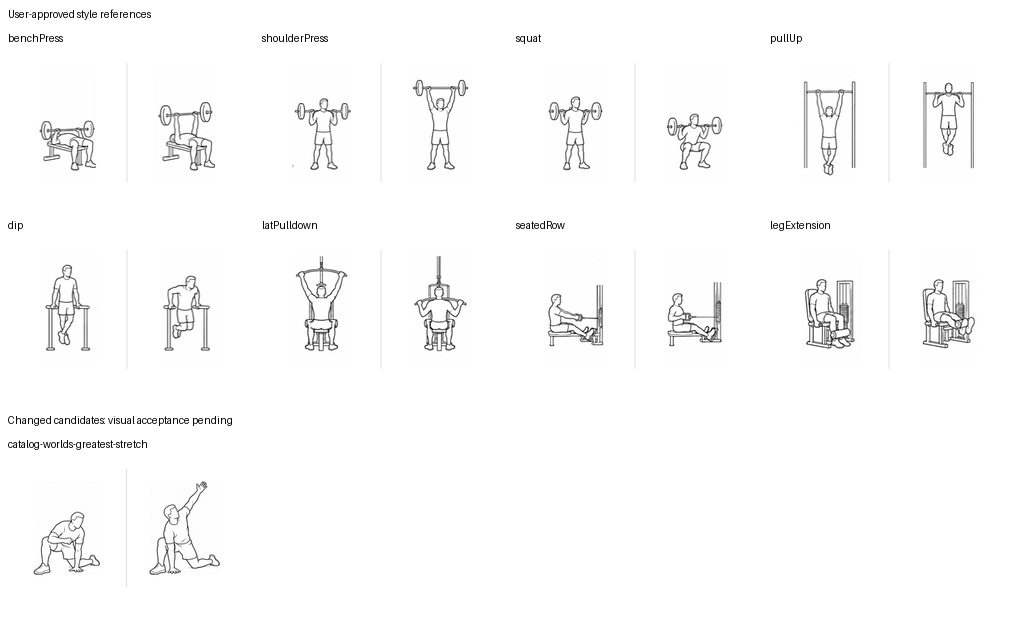
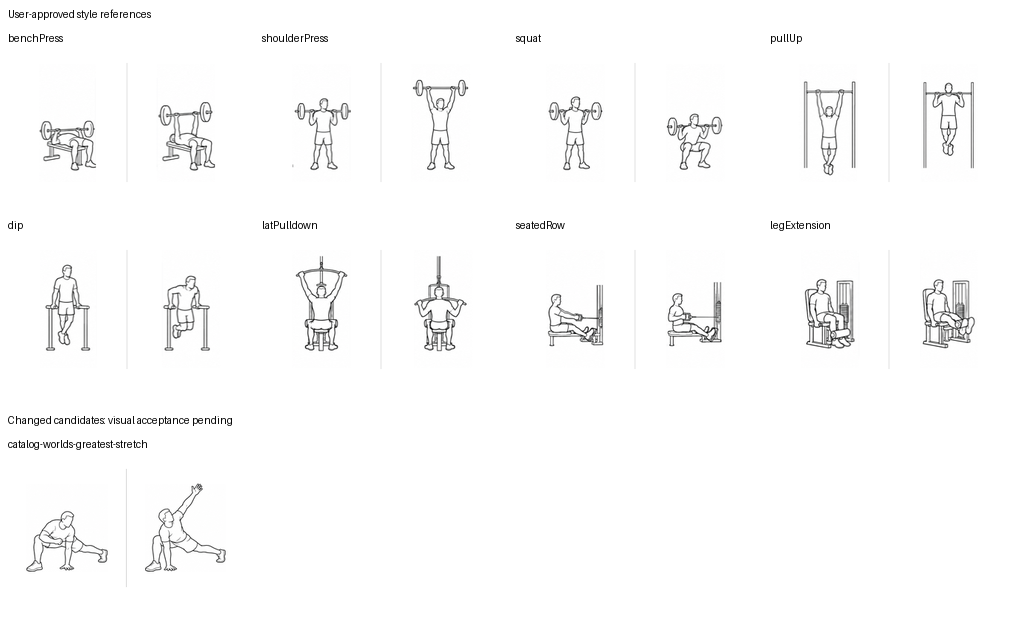
fix: 修正弓步轉體後膝離地姿勢與補記分類

Changed region(s): [[0.0305, 0.7504, 0.2441, 0.9305]]

diff --git a/src/data/exerciseTranslations.ts b/src/data/exerciseTranslations.ts
@@ -327,21 +327,21 @@ const exerciseEnglishContent: Record<string, Partial<ExerciseDisplayFields>> = {
   'catalog-shoulder-press': { title: 'Barbell shoulder press', description: 'Use a controllable light barbell for a standing front shoulder press.', detail: 'Catalog-only resistance content; do not use as a default recommendation when shoulder symptoms are present.', steps: ['Stand with stable feet and a steady torso.', 'Start with the barbell in front of the body at chin-to-shoulder height, never behind the neck.', 'Press only through a comfortable, controlled range.', 'Lower slowly to the starting position in front of the body.'], benefits: 'Provides an upper-body pushing reference.', durationText: '2 sets of 8 reps' },
   'catalog-worlds-greatest-stretch': {
     "title": "World’s greatest stretch",
-    "description": "Combine a rear-knee-down lunge with an elbow lowering and thoracic rotation.",
-    "detail": "An App adaptation using a small range and the rear knee on the floor, for browsing and recording completed exercise. Excluded from guided training and conservative recommendations. Requires safe floor transfers and arm support; do not chase the video’s depth or arm height.",
+    "description": "Combine a rear-knee-off-floor lunge, supported on the rear forefoot, with an elbow lowering and thoracic rotation.",
+    "detail": "The rear-knee-off-floor version of World’s Greatest Stretch, for browsing and recording completed exercise. Excluded from guided training and conservative recommendations. Extend the rear leg back with the ball of the foot supported and heel lifted. Requires safe floor transfers and steady hand and foot support. Do not chase depth or arm height.",
     "steps": [
-      "Half-kneel on a non-slip surface with the right foot planted in front and the left knee and shin on the floor. Use thin padding under the rear knee if needed. Place the left hand on the floor inside the right foot and find a comfortable shallow lunge.",
-      "Keep the trunk controlled and slowly lower the right elbow toward the inside of the right foot, only as far as comfortable. Pause for up to 5 seconds; do not force the elbow to the floor or press the hips down.",
-      "Let the right knee open slightly outward within a controlled range while keeping the whole right foot planted. Do not push the knee with the elbow.",
-      "Keep the left hand and legs supported. Slowly rotate the chest to the right, letting the right arm rise only to a comfortable height. Avoid swinging, forcing the neck, or arching the lower back.",
-      "Return the right hand to the floor for support: this completes one right-side movement. Change sides safely and mirror the sequence. Count each side separately and record the amount actually completed."
+      "On a non-slip surface with both hands supporting you, step the right foot forward outside the right hand and plant the whole foot. Extend the left leg back, support the ball of the left foot with the heel lifted, and keep the left knee off the floor without locking it. Check that the hands and feet can bear weight steadily.",
+      "Keep the left hand supported and slowly lower the right elbow toward the inside of the right foot while keeping the left knee off the floor. Use only a comfortable range and pause for up to 5 seconds; do not force elbow contact or press the hips down.",
+      "Let the right knee open slightly outward within a controlled range while keeping the whole right foot planted. Do not push the knee with the elbow; keep the rear forefoot and left hand supported.",
+      "Keep the support points steady and slowly rotate the chest to the right, letting the right arm rise only to a comfortable height. The left leg stays extended back with the knee off the floor. Avoid swinging, forcing the neck, or arching the lower back.",
+      "Return the right hand to the floor for support: this completes one right-side movement. Establish steady support through both hands before changing sides safely. Count each side separately and record the amount actually completed."
     ],
     "durationText": "App reference: 1 round, up to 5 reps per side; elbow phase up to 5 sec; 60-sec rest is a reference only",
     "benefits": "Provides a reference for hip and thoracic mobility practice.",
     "cautions": [
-      "Classified as intermediate by the App. Rear-knee-down and small-range adaptations are not suitable for everyone. Do not attempt without safe floor transfers and arm support.",
+      "Classified as intermediate by the App. Requires safe floor transfers and support through the arms, front foot, and rear forefoot. If the rear knee cannot stay lifted steadily, exit this version and regress or rest instead of forcing it.",
       "Do not chase a deep lunge, elbow-to-floor contact, or a vertical arm. Exit the position for hip pinching, knee pressure, or wrist or shoulder discomfort.",
-      "Stop this version and regress or rest when pain exceeds 3/10. Do not push through pain to finish reps, hold the breath, or bounce.",
+      "Stop this version and regress or rest when pain exceeds 3/10. Do not push through pain to finish reps, hold the breath, bounce, or overarch the lower back to hold the rear leg.",
       "The video demonstrates 5 complete movements per side. The App’s 1 round and 60-second rest are interface references, not the video prescription or personalized advice."
     ],
     "stopRules": [
@@ -349,11 +349,11 @@ const exerciseEnglishContent: Record<string, Partial<ExerciseDisplayFields>> = {
       "Stop for numbness, weakness, dizziness, or loss of support. Do not train with red-flag symptoms."
     ],
     "regressions": [
-      "Reduce the lunge and rotation range; rest the right hand on the front thigh instead of lowering the elbow or raising the arm. Keep the rear knee down.",
-      "Reduce reps or skip uncomfortable stages. Stop if supporting, kneeling, or getting up cannot be done comfortably and safely; seek advice from a physician or physical therapist."
+      "Reduce the lunge and rotation range, keeping both hands supported on the floor first. Omit elbow lowering or arm raising if needed. If the rear knee still cannot stay lifted steadily, exit this exercise and rest.",
+      "Reduce reps or skip uncomfortable stages. Stop if supporting or getting up cannot be done comfortably and safely; seek advice from a physician or physical therapist."
     ],
     "progressions": [
-      "Once symptom-free and controlled through all stages, improve smoothness and control first. Lifting the rear knee, increasing depth, and loading are not default progressions."
+      "Once symptom-free and stable with the rear forefoot supported and rear knee off the floor, improve smoothness and control between stages first. Pressing the hips down, deepening the lunge, and loading are not default progressions."
     ]
   },
   'catalog-side-squat': {

diff --git a/src/data/exercises.ts b/src/data/exercises.ts
@@ -1088,14 +1088,14 @@ export const exercises: Exercise[] = [
     "condition": "髖部與胸椎活動度（動作庫）",
     "type": "mobility",
     "level": "intermediate",
-    "description": "以後膝跪地的弓步，配合前側手肘下移與胸椎轉體。",
-    "detail": "World’s Greatest Stretch 的 App 小幅度跪地版本，供查閱與補記，不提供引導訓練或保守推薦。需要能安全上下地面及以手臂支撐；不追求影片中的深度或抬高手臂。",
+    "description": "以後腳前掌支撐、後膝離地的弓步，配合前側手肘下移與胸椎轉體。",
+    "detail": "World’s Greatest Stretch 的後膝離地版本，供查閱與補記，不提供引導訓練或保守推薦。後腿向後伸展，以後腳前掌支撐、腳跟抬起；需要能安全上下地面並維持手腳支撐。不追求深度或抬手高度。",
     "steps": [
-      "在防滑平面上採半跪姿，右腳向前踩穩，左膝與小腿留在地面；需要時在後膝下墊薄墊。左手放在右腳內側地面支撐，找出舒適的小幅弓步。",
-      "軀幹保持穩定，右手肘緩慢向右腳內側下移，只到舒適位置，可短暫停留至 5 秒；不要求手肘碰地，不把髖部壓向地面。",
-      "右膝在可控制範圍內輕微朝外打開，右腳全腳掌保持踩穩；不以手肘強推膝蓋。",
-      "左手與雙腿支撐不變，上胸緩慢朝右側轉開，右手隨胸部向上伸到舒適高度；不甩動、不勉強轉頸或拱腰。",
-      "右手回到地面支撐，算右側 1 個完整動作；安全換邊後左側相同。每側分別計次，依實際完成量補記。"
+      "在防滑平面上以雙手支撐，右腳向前跨到右手外側，右腳全腳掌踩穩。左腿向後伸展，以左腳前掌支撐、腳跟抬起，左膝保持離地，不鎖死膝蓋；先確認手腳能穩定承重。",
+      "左手持續支撐地面，右手肘緩慢向右腳內側下移，左膝維持離地，只到舒適位置，可短暫停留至 5 秒；不要求手肘碰地，不把髖部壓向地面。",
+      "右膝在可控制範圍內輕微朝外打開，右腳全腳掌保持踩穩；不以手肘強推膝蓋，後腳前掌與左手持續支撐。",
+      "支撐點不變，上胸緩慢朝右側轉開，右手隨胸部向上伸到舒適高度；左腿仍向後伸展、左膝離地，不甩動、不勉強轉頸或拱腰。",
+      "右手回到地面支撐，算右側 1 個完整動作；先穩定雙手支撐，再安全換邊。每側分別計次，依實際完成量補記。"
     ],
     "sets": 1,
     "reps": 5,
@@ -1104,9 +1104,9 @@ export const exercises: Exercise[] = [
     "durationText": "App 參考：1 回合，每側至多 5 次；下肘階段停留至 5 秒，休息 60 秒僅供參考",
     "benefits": "提供髖部與胸椎活動度練習的動作參考。",
     "cautions": [
-      "App 分為中階；後膝跪地與小幅度是 App 採用版本，不代表適合所有人。無法安全上下地面或以手臂支撐時不要嘗試。",
+      "App 分為中階；需要能安全上下地面並以手臂、前腳及後腳前掌支撐。無法穩定維持後膝離地時不要勉強，先退出本版本，改用降階或休息。",
       "不要追求深弓步、手肘碰地或手臂垂直。髖前側夾擠、膝蓋壓迫、手腕或肩部不舒服時退出該姿勢。",
-      "疼痛超過 3/10 時停止這個版本，降階或休息。不要忍痛完成次數，也不要憋氣或彈震。",
+      "疼痛超過 3/10 時停止這個版本，降階或休息。不要忍痛完成次數，也不要憋氣、彈震或用腰部硬撐後腿。",
       "影片示例為每側 5 個完整動作；App 的 1 回合及 60 秒休息是介面參考，並非影片處方或個人化建議。"
     ],
     "stopRules": [
@@ -1114,11 +1114,11 @@ export const exercises: Exercise[] = [
       "出現麻木、無力、頭暈或失去支撐時停止；有紅旗症狀時不要訓練。"
     ],
     "regressions": [
-      "縮小弓步與轉體幅度，右手留在前側大腿上，不下肘或抬高手臂；後膝保持跪地。",
-      "減少次數或略過不舒服階段；無法舒適支撐、跪地或安全起身時停止，建議諮詢醫師或物理治療師。"
+      "縮小弓步與轉體幅度，雙手先保持地面支撐，可省略下肘或抬手；若仍無法穩定維持後膝離地，退出本動作並休息。",
+      "減少次數或略過不舒服階段；無法舒適支撐或安全起身時停止，建議諮詢醫師或物理治療師。"
     ],
     "progressions": [
-      "能無症狀且穩定完成所有階段後，先改善動作連貫與控制；不預設抬起後膝、增加深度或加重。"
+      "能無症狀且穩定維持後腳前掌支撐、後膝離地後，先改善各階段連貫與控制；不以壓低髖部、加深弓步或加重作為預設進階。"
     ],
     "equipment": [
       "bodyweight"

diff --git a/src/utils/recordsPresentation.ts b/src/utils/recordsPresentation.ts
@@ -24,7 +24,7 @@ export function recordCategories(item: RecordsActivityItem, logs: TrainingLogEnt
     if (exercise.kind === 'mobility') return 'rehab';
     const canonical = exercise.exerciseId ? catalogById.get(exercise.exerciseId) : undefined;
     if (!canonical) return 'unknown';
-    return canonical.catalogOnly ? 'strength' : 'rehab';
+    return canonical.catalogOnly && canonical.type !== 'mobility' ? 'strength' : 'rehab';
   });
   if (item.workout.cyclingMinutes !== undefined) categories.push('cardio');
   return TRAINING_CATEGORIES.filter(category => categories.includes(category));

diff --git a/docs/visual-qa/worlds-greatest-stretch/qa.md b/docs/visual-qa/worlds-greatest-stretch/qa.md
@@ -1,35 +1,40 @@
-# 弓步轉體伸展 QA
+# 弓步轉體伸展 QA（後膝離地更正）
 
 ## 範圍與來源
 
-- 新增 `catalog-worlds-greatest-stretch`；canonical runtime `public/exercise-visuals/movements/catalog-worlds-greatest-stretch.png`。
[1 lines of base64/hex data omitted]
-- source：`scripts/assets/movement-art-sources/overrides/worlds-greatest-stretch/` 的 PNG 與 framing sidecar。沿用 normalizer，maxWidth 110、maxHeight 126，非直接手改 runtime。
-- baseline：`approved-style-baseline.json` 的八張封存參考，hash 稽核通過；無核准地板動作 control。沒有更改既有圖或 mapping。
-- 命名比較包：同目錄 `comparison-native.png`、`comparison-mobile-390.png`、`comparison-mobile-375.png`、`comparison-mobile-320.png`。由既有 `create-movement-art-review.py` 的暫存 scoped 副本僅選新 ID 產生，未改 repo helper。mobile-measurements.json 記錄本機 browser picker 實測寬度並綁定圖片 hash；不是完整手機矩陣或真人證據。
+- 動作 ID：`catalog-worlds-greatest-stretch`；runtime `public/exercise-visuals/movements/catalog-worlds-greatest-stretch.png`。
[2 lines of base64/hex data omitted]
+- source：`scripts/assets/movement-art-sources/overrides/worlds-greatest-stretch/` 的 PNG 與 framing sidecar；沿用 maxWidth 110、maxHeight 126，由既有 normalizer 重建，未直接手改 runtime。
+- baseline：八張封存 quick 圖不變，hash 稽核通過；沒有核准地板動作 control。
+- 命名比較包：`comparison-native.png`、`comparison-mobile-390.png`、`comparison-mobile-375.png`、`comparison-mobile-320.png`；既有 comparison helper 的暫存 scoped 副本僅選此新圖，未改 repo helper。
+- 2026-10-21 重測本機 browser picker：新圖寬 236／291／306px（320／375／390 viewport），載入 320×184，40:23，無水平溢出；原 quick 圖寬 238／293／308px。mobile-measurements.json 綁定本次新 hash，僅此範圍，不是完整手機矩陣。
 
 ## 四項分開判定
 
 | 項目 | 結果 | 證據與界線 |
 |---|---|---|
-| 風格一致性 | NOT VERIFIED | 已與八張封存圖在 native／手機尺寸並列；T-shirt、短褲、白底、簡化輪廓與單分隔線維持。頭身比例、手部細節與感知人物比例仍待真人驗收；沒有 anonymous blind test。 |
-| 動作準確性 | Pass（父代理靜態檢視） | 兩格前腳同側、後膝著地、另一手支撐，左格下肘、右格轉體；不宣稱專業臨床審查。完整連續五步仍需讀文字與影片。 |
-| 安全呈現 | Pass（父代理靜態檢視） | 後膝著地、不負重、不要求手肘碰地；寫明支撐能力、降階及停止規則。無法從插圖推定動作對個人適用性。 |
-| 手機呈現 | Pass（本機 browser） | 320／375／390px 詳情與補記 picker 無橫向溢出；新 PNG 成功載入，picker 實測寬 236／291／306px、比例 40:23；選取後沿用同 canonical 圖。不是實體 iPhone Safari。 |
+| 風格一致性 | NOT VERIFIED | 新圖與八張封存圖在 native／手機尺寸並列；服裝、白底、簡化輪廓與單分隔線維持。感知比例、手部細節與線條仍待真人驗收，沒有 blind test。 |
+| 動作準確性 | Pass（父代理靜態檢視） | 兩格都為前腳踩穩、後腿向後伸展、後膝離地、後腳前掌支撐、對側手支撐；左右格為下肘與轉體。0:12 原影片提供後腿支撐姿勢核對；並非專業臨床核准。 |
+| 安全呈現 | Pass（父代理靜態檢視） | 未以後膝或小腿著地支撐；無額外負重、不要求下肘碰地。文字說明支撐能力、不能穩定時退出、疼痛與紅旗停止門檻。不代表個人適用性。 |
+| 手機呈現 | Pass（本機 browser） | 320／375／390px 詳情與 picker 圖片載入、比例及無 overflow；搜尋／選取沿用 canonical 圖。未操作實體 iPhone Safari。 |
 
 ## 本機驗證
 
-- `npm run build`、`npm test`、`npm run audit:exercise-coverage`、`npm run audit:safety-i18n`、`npm run audit:movement-art`、`npm run audit:movement-art-sources`、`git diff --check` 通過。
-- coverage 46/46；40 effective overrides 可 byte-for-byte 重建。既有 bundle >500 kB 提醒不屬新增失敗。
-- browser 核對：中英文詳情、原影片 embed、五步／安全／調整可讀、catalog-only 無 guided start、英文 world 搜尋可選取補記。
-- 未完成：真人視覺驗收、實體 iPhone Safari、production；CI 與必要 Claude 審查於 PR 記錄，不以此文件推定通過。
+- `npm test`、`npm run build`、`audit:exercise-coverage`、`audit:safety-i18n`、`audit:movement-art`、`audit:movement-art-sources`、`git diff --check` 通過。
+- 46/46 canonical coverage；40 effective overrides 可 byte-for-byte 重建；既有 bundle 大小提醒仍在。只有此動作的來源與 runtime 圖被修改。
+- 既有分類 P1 一併修正：canonical catalog-only mobility 缺少 kind 時屬 rehab；不改明確 kind 優先序、不改非 catalog-only 復健分類、不改寫舊 storage。新增 regression 驗證此動作增加 rehab day 且 strength day=0，bench press 仍屬 strength，明確 kind 與輸入不可變性保持。
+- 中英文主步驟均已改成後膝離地；detail／regression／progression 不再引導跪地主版本。保留每側次數、下肘停留、App 回合／休息的原有來源邊界。
+- 真人風格、實體 iPhone Safari、production NOT VERIFIED。CI 與必要 AI review 綁定最終 head 留在 PR；舊 head 證據不冒充本次結果。
+
+## 真人 walkthrough
+
+在當前 PR head 的 Preview 開啟 `/exercise/catalog-worlds-greatest-stretch?mode=all`，核對後膝離地及後腳前掌支撐；再於 `/logs/new` 搜尋 world／弓步轉體，選取核對同圖，不必保存。與比較包核對線條、比例、兩格動作與支撐。
+
+回報 `head SHA / 裝置瀏覽器 / 風格 Pass或Fail / 動作 Pass或Fail / 裁切溢出 Pass或Fail / 具體觀察`。
 
 ## 生成 prompt
 
-Create ONE new two-phase exercise illustration source for Rehab Workout: World's greatest stretch, conservative rear-knee-on-floor version. Reference image is STYLE ONLY: match its simplified small-headed adult man, short hair, plain T-shirt and shorts, economical shoes and hands, restrained dark sketch outlines, no anatomical detail, no eyes/mouth, plain white background. Wide 40:23 composition split in two equal panels by a single light gray vertical divider; no text, no arrows, no outer frames, no shading. Each panel has one COMPLETE small full-body person centered with generous whitespace, same character and limb placement. Three-quarter FRONT view, right leg forward (viewer left), entire right foot planted, right knee bent roughly above ankle; left knee and shin REST ON FLOOR behind. LEFT panel: left palm firmly on floor inside right foot, right elbow gently lowered toward inside right ankle WITHOUT forcing elbow to ground, spine long. RIGHT panel: SAME knees and feet remain planted, left palm stays planted, chest gently rotates to right toward front leg, right arm reaches diagonally upward in comfortable rotation, not maximal end range; head follows chest with neutral neck. No rear knee hovering, no deep split or forced contortion. Match restrained figure scale of reference bench press/dip, not enlarged to fill panel. Precisely two arms and two legs each, anatomically continuous. This image depicts middle elbow-lowering and final thoracic-rotation stages; written instructions will describe setup and knee opening.
+使用 built-in imagegen；Image 1 是舊來源 edit target，Image 2 是封存 quick sheet 的風格參考。只改後腿支撐與相應姿勢，prompt 如下：
 
-## 真人回報格式
-
-在 PR 當前 head 的 Preview 開啟 `/exercise/catalog-worlds-greatest-stretch?mode=all` 及 `/logs/new`，搜尋 world／弓步轉體；對照比較包確認人物比例、線條、兩格動作與安全支撐，再選取確認同圖。
-
-`head SHA / 裝置瀏覽器 / 風格 Pass或Fail / 動作 Pass或Fail / 裁切溢出 Pass或Fail / 具體觀察`。
+Use case: precise-object-edit. Image 1 is the existing Rehab Workout exercise source to correct. Image 2 is the frozen quick-sheet STYLE reference only. Correct World's Greatest Stretch to the actual REAR-KNEE-OFF-FLOOR lunge version. Two equal panels on white, simple man in plain T-shirt and shorts, simplified small head/hairline and economical hands/shoes, restrained dark sketch outlines matching reference, no anatomy/shading/text/arrows/outer frame; one thin light gray center divider. Preserve same character, same front leg and left-to-right phase sequence. BOTH panels: right front foot (viewer left) stays flat, knee bent; LEFT REAR LEG EXTENDS LONG BACKWARD toward viewer right, knee lifted CLEARLY OFF THE FLOOR, supported ONLY by curled rear toes/ball of foot, rear heel lifted; no rear shin or knee touches floor, no kneeling. The pelvis is a LOW RUNNER'S LUNGE, torso inclines forward, not upright tall half-kneel. Left supporting palm stays firmly planted inside right front foot. LEFT panel: right elbow lowers gently toward inside of front foot, chest inclined forward, NOT forcing elbow contact. RIGHT panel: SAME foot stance and extended rear leg with knee off floor, left palm planted, chest rotates toward front-leg side and right hand reaches diagonally up; not maximal twist, no lumbar overarch. Exactly two anatomically connected arms and legs per figure. Keep stance length, character size, stroke style and whitespace consistent between phases. Entire front foot, rear toes and raised hand visible. Generous reference-like whitespace; no enlargement to fill box. This is a narrow pose correction, not a redesign.

diff --git a/docs/research/worlds-greatest-stretch.md b/docs/research/worlds-greatest-stretch.md
@@ -1,18 +1,23 @@
 # 弓步轉體伸展：來源與收錄邊界
 
 - 動作 ID：`catalog-worlds-greatest-stretch`；Tier 3；只供動作庫搜尋與實際訓練補記，不進推薦或引導訓練。
-- 使用者來源：[Squat University 原影片](https://www.youtube.com/watch?v=-CiWQ2IvY34)。2026-10-21 以瀏覽器核對標題、作者與畫面；無可匯出逐字稿。
-- 原作者文字：[How to Improve Hip Mobility](https://squatuniversity.com/2015/12/28/the-squat-fix-hip-mobility-pt-3/)。WGS 段落記載弓步、前側手肘下移、前膝外移但腳掌踩穩、同側胸椎旋轉；5 秒只屬手肘下移階段。
+- 使用者來源：[Squat University 原影片](https://www.youtube.com/watch?v=-CiWQ2IvY34)。2026-10-21 重新以瀏覽器核對完整示範：0:12 可見後腿向後伸展、後膝離地、後腳前掌支撐，0:33 為胸椎轉體段落；影片沒有可匯出逐字稿，畫面與字幕只作實際可觀察範圍的證據。
+- 原作者文字：[How to Improve Hip Mobility](https://squatuniversity.com/2015/12/28/the-squat-fix-hip-mobility-pt-3/)。WGS 段落記載弓步、前側手肘下移、前膝外移但腳掌踩穩、同側胸椎旋轉；5 秒只屬手肘下移階段。後續的半跪髖屈肌伸展是另一動作，不能作為 WGS 主動作跪地的依據。
 - 影片 0:36 畫面明列每側 5 個完整動作；App 採用每側至多 5 次。1 回合與 60 秒休息是 App 介面參考，非原作者完整處方。文章後段 30–60 秒／2–3 次屬其他動作，不套用本動作。
-- 中階分級、後膝跪地、小幅度、不強壓膝蓋或手肘碰地是 App 調整。影片有後膝跪地與後膝離地畫面；本項預設後膝著地。這些調整不代表已證明適合所有高齡者或症狀使用者。
-- 保留疼痛 >3 降階／休息、>=6 停止與紅旗不訓練。無診斷、治癒、改善保證；不改 safety、session、routing、推薦或 LocalStorage 契約。
+- 主姿勢採後腳前掌支撐、腳跟抬起、後腿向後伸展、後膝離地；手腳支撐點在下肘與轉體時保持。中階分級、舒適幅度、不強壓膝蓋或手肘碰地是 App 編輯邊界；不代表已證明適合所有高齡者或症狀使用者。無法控制主姿勢時縮小幅度、省略階段或退出，不要求勉強懸膝。
+- 保留疼痛 >3 降階／休息、>=6 停止與紅旗不訓練。無診斷、治癒或改善保證；不改 safety、session、routing、推薦或 LocalStorage 契約。
+
+## 更正紀錄
+
+先前 `234ad7b` 的文案及插圖由父代理自行改為後膝跪地，與使用者指定的完整示範不符。撤回「跪地即主版本」及「影片跪地／離地為可互換主姿勢」的說法，也撤回該圖在動作／安全呈現的 Pass。2026-10-21 依使用者指正重新核對；中英主步驟、調整、插圖及 QA 一起更正。這是修正示範忠實度，不是把無法穩定懸膝的人推向更難版本。
 
 ## 插圖
 
-使用 `rehab-exercise-image-creation` 與 `imagegen` 技能，既有 quick sheet 為風格參考。新來源及 `.layout.json` 經既有 normalizer 產生單一 canonical 320×184 資產。兩格呈現下肘與轉體，不取代完整五步文字。原八張封存參考不變；八張中無核准地板動作 control。
+使用 `rehab-exercise-image-creation` 與 `imagegen` 技能，以既有來源為 edit target、quick sheet 為風格參考。僅修正後腿延伸、後膝離地、後腳前掌支撐及相應軀幹角度。來源及 `.layout.json` 經既有 normalizer 產生 canonical 320×184 資產；兩格呈現下肘與轉體，不取代完整五步文字。原八張封存參考不變；八張中無核准地板動作 control。
 
-視覺風格與人體比例仍須真人驗收，不能由尺寸或圖檔成功載入推定 Pass。原始生成 prompt 及 QA 記錄見同目錄 QA 文件。
+視覺風格與人體比例仍須真人驗收，不能由尺寸或圖檔載入推定 Pass。prompt、hash 與 QA 見 `docs/visual-qa/worlds-greatest-stretch/qa.md`。
 
 ## 委派紀錄
 
-指定 `gpt-6-astra`／實際模型 NOT VERIFIED；理由為運動內容與劑量來源決策；repo／子任務風險 Tier 3／健康內容。子代理只讀查核原作者文字與雙語安全建議，未改檔。父代理獨立核對原文、影片 0:05 與 0:36 畫面，整合來源與 App 參考量邊界；無父代理重做研究，依影片可見文字補齊原文未載的每側次數。Claude 獨立 Tier 3 審查仍另行執行。
+- 初次研究：指定 `gpt-6-astra / high`／實際模型 NOT VERIFIED；repo／子任務風險 Tier 3／健康內容；只讀核對原作者文字與雙語安全建議。父代理自行加入跪地預設造成返工，不能把原研究視為該姿勢核准。
+- 本次重評：指定 `gpt-6-astra / high`／實際模型 NOT VERIFIED；理由為健康姿勢內容與既有分類 finding 的邊界；只讀核對來源、中英 entry、QA 與 PR finding。子代理未獨立重播影片，影片觀察由父代理負責；父代理整合、檢查差異並執行測試。必要 Claude 獨立審查仍另行處理。

diff --git a/docs/exercise-coverage-audit.md b/docs/exercise-coverage-audit.md
@@ -1,8 +1,8 @@
 # Exercise Coverage Audit
 
-Generated: 2026-10-21T15:33:29.887Z
+Generated: 2026-10-21T15:33:36.880Z
 
-Source commit: 89f91e7
+Source commit: 4138e2e
 
 Scope: audit only. This report does not add exercise content, change recommendation behavior, change pain thresholds, or bypass SafetyGate.
 
